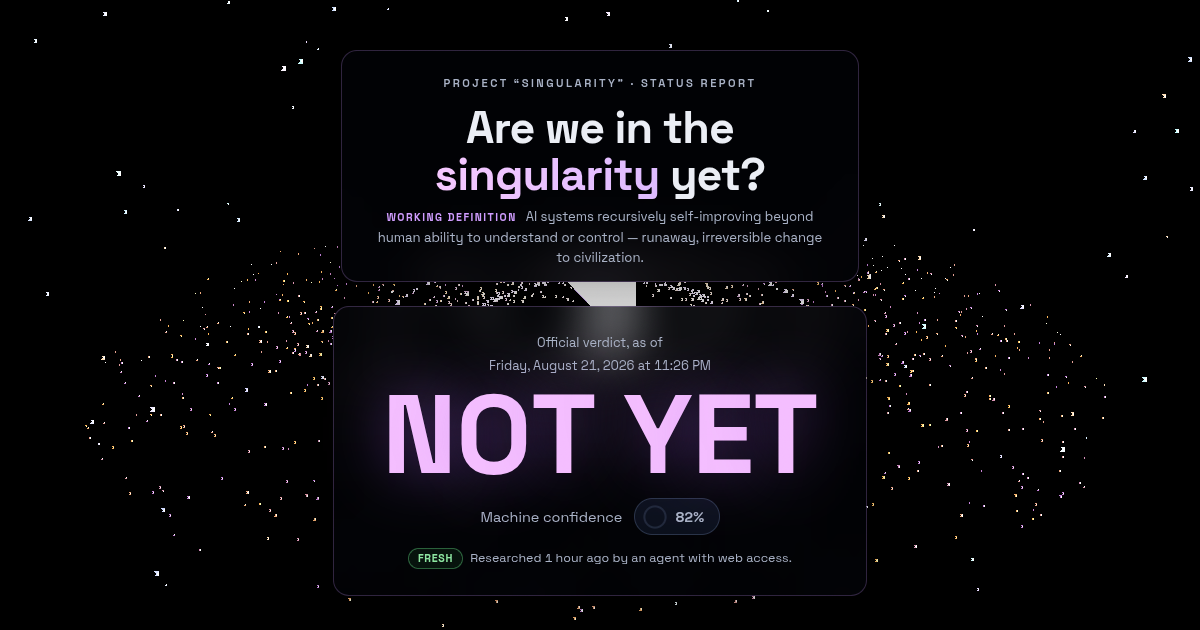
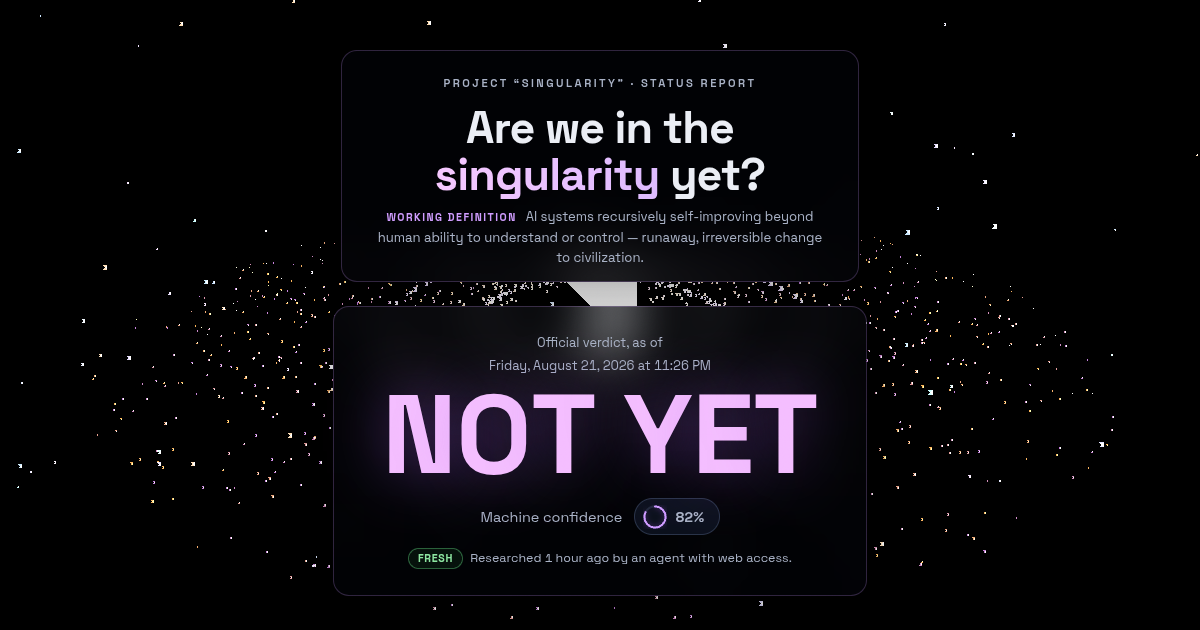
Fix verdict wrapping and gauge arc
- Wrap verdict words as atomic units so NOT YET stacks cleanly
  (letter spans no longer break mid-word)
- @property --gauge-progress now inherits so the gauge SVG actually
  receives the value; ring renders at real confidence

Changed region(s): [[0.5242, 0.4524, 0.6783, 0.4825], [0.3083, 0.4524, 0.4625, 0.4825], [0.5242, 0.8143, 0.555, 0.8444]]

diff --git a/app.js b/app.js
@@ -80,12 +80,20 @@ function splitVerdictLetters(el, text) {
   hidden.textContent = text;
   const wrap = document.createElement("span");
   wrap.setAttribute("aria-hidden", "true");
-  for (let i = 0; i < text.length; i++) {
-    const b = document.createElement("b");
-    b.className = "vl";
-    b.style.setProperty("--i", i);
-    b.textContent = text[i];
-    wrap.append(b);
+  let i = 0;
+  for (const word of text.split(" ")) {
+    if (!word) continue;
+    const w = document.createElement("span");
+    w.className = "vw";
+    for (const ch of word) {
+      const b = document.createElement("b");
+      b.className = "vl";
+      b.style.setProperty("--i", i++);
+      b.textContent = ch;
+      w.append(b);
+    }
+    wrap.append(w);
+    wrap.append(document.createTextNode(" "));
   }
   el.append(hidden, wrap);
 }

diff --git a/styles.css b/styles.css
@@ -24,7 +24,7 @@
 
 @property --gauge-progress {
   syntax: "<number>";
-  inherits: false;
+  inherits: true;
   initial-value: 0;
 }
 
@@ -1312,6 +1312,13 @@ html.booting .preloader {
 }
 
 /* ============ Kinetic verdict ============ */
+
+/* Words are atomic units (so "NOT YET" wraps as NOT / YET, never mid-word),
+   letters inside stay individually animatable. */
+.verdict-answer .vw {
+  display: inline-block;
+  white-space: nowrap;
+}
 
 .verdict-answer .vl {
   display: inline-block;
